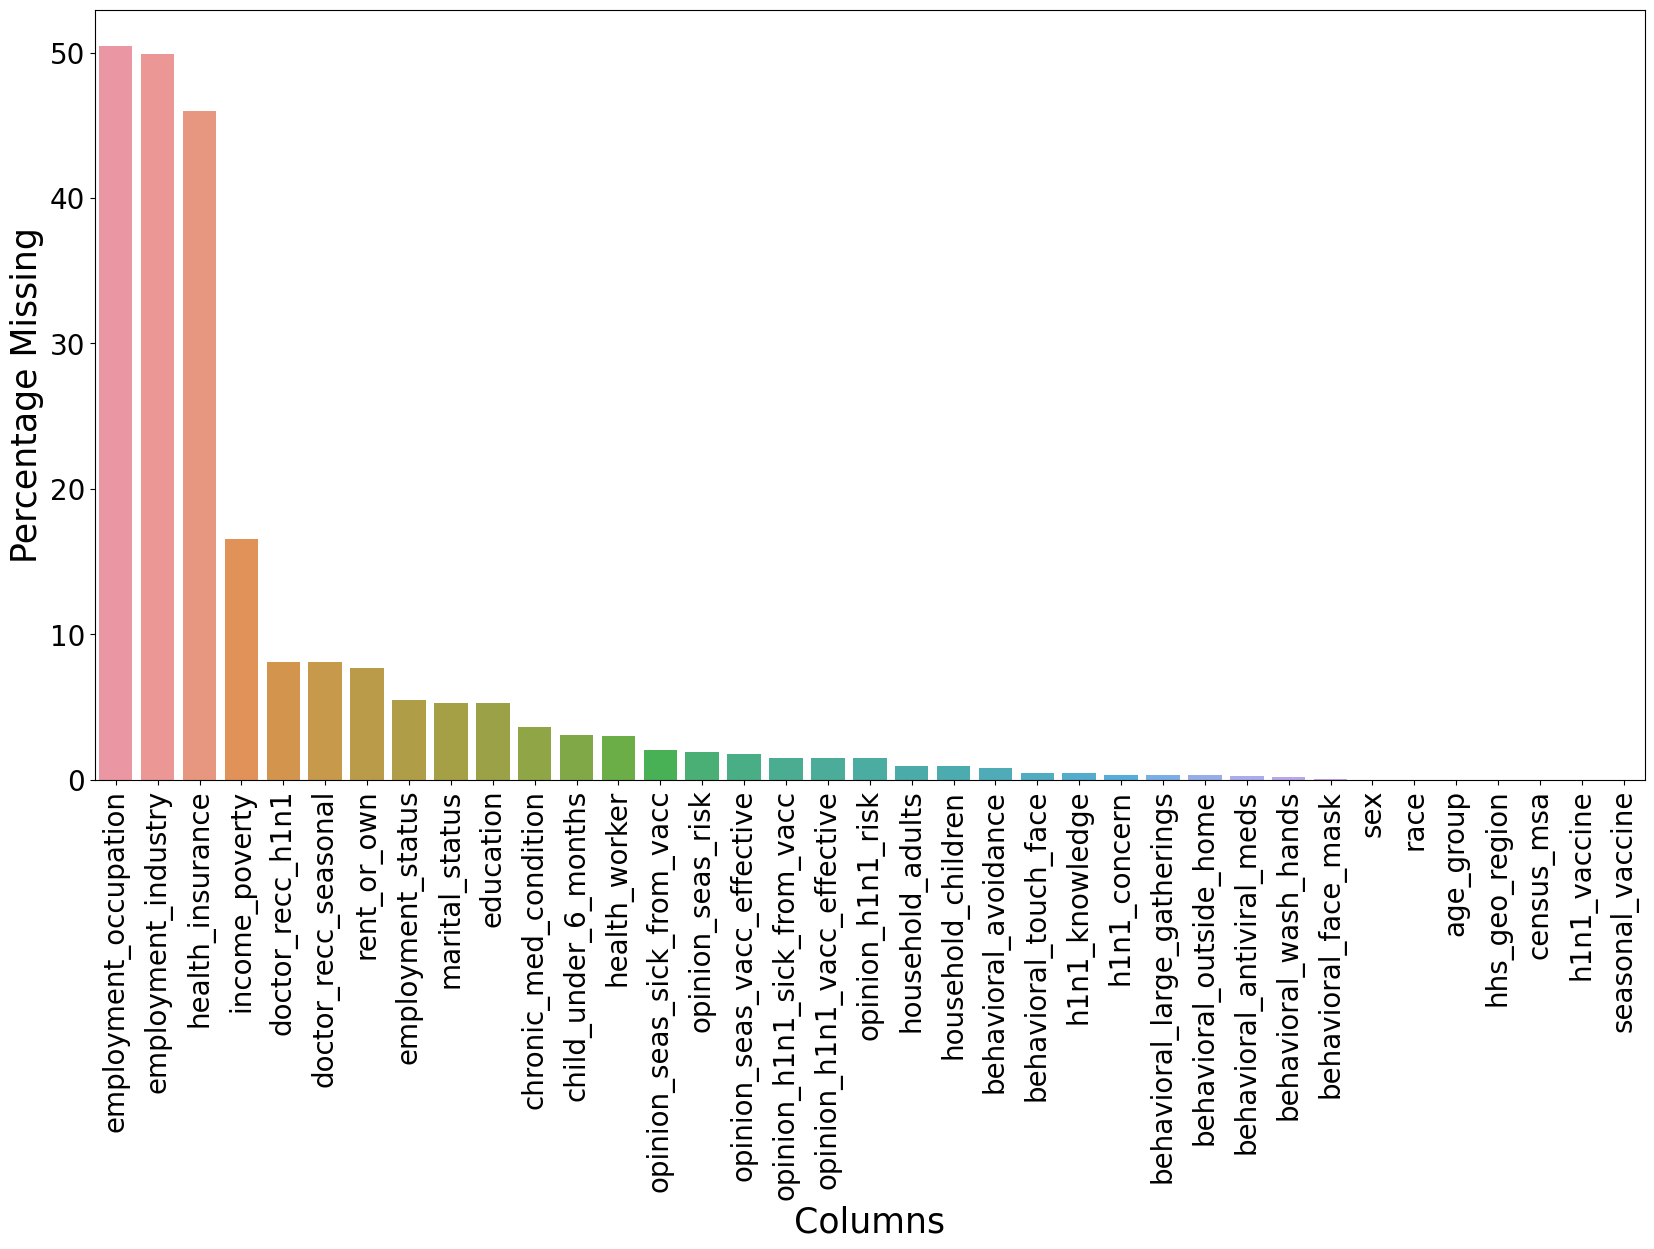
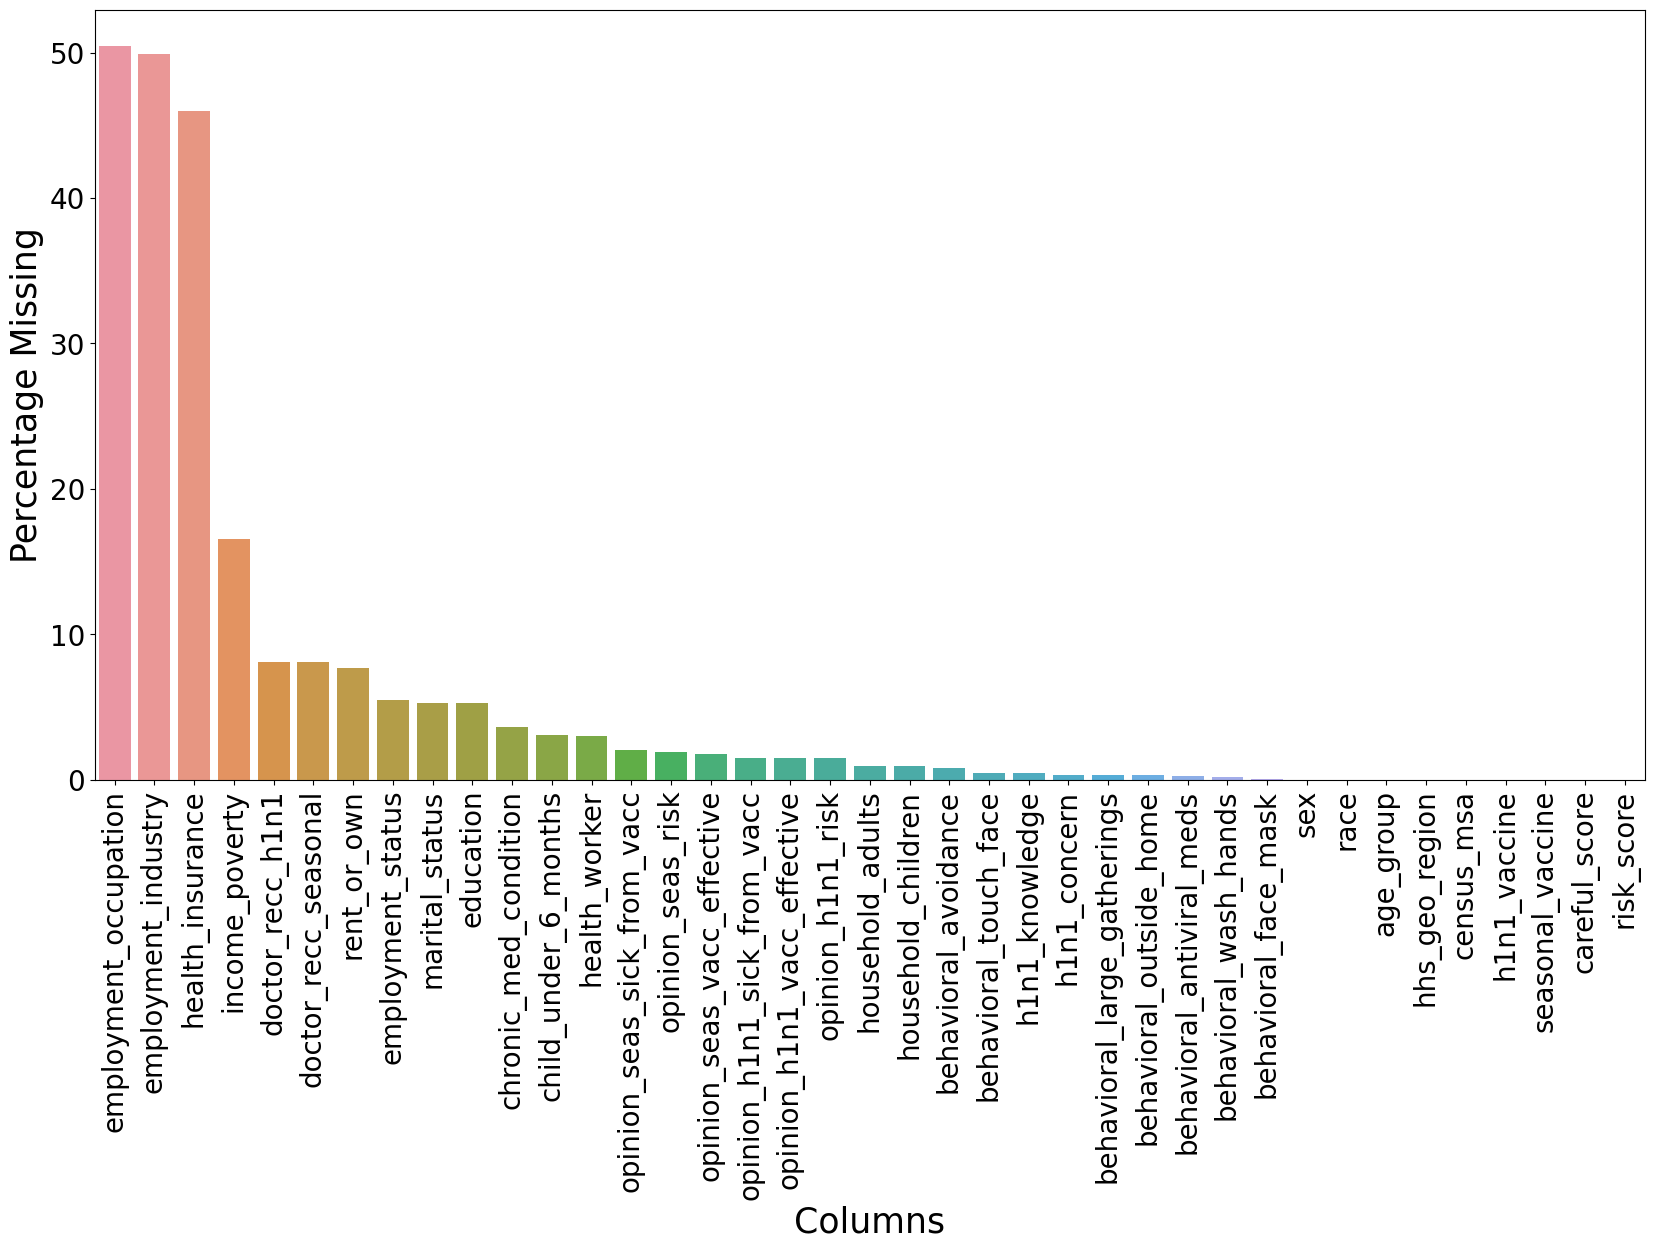
feature engineering

Changed region(s): [[0.0617, 0.0937, 0.9867, 0.968]]

diff --git a/main.py b/main.py
@@ -72,7 +72,7 @@ occurs
 
 The biggest insight of the graphing is that all variables are of categorical nature, which mean that we will
 have to think about valid encoding methods. Secondly we find several columns with a significant amount of missing
-observations. Next up we will look how bad the problem actually is."""
+observations."""
 
 CATEGORICAL_THRESHOLD = 5/100 * len(total_train)
 feature_columns = list(set(total_train.columns) - set(target_columns))
@@ -86,6 +86,76 @@ for column in tqdm(feature_columns):
         self_plot.categorical_plot(object_series)
     else:
         self_plot.numerical_plot(no_nan_series)
+
+# %% Feature Engineering - Beginning
+
+"""In order to see what the important variables are we take a first look at the most and least correlated variables
+with the target. From there we already have some sort of an idea in which direction to look"""
+
+NUM_ROWS_SHOWN = 10
+num_target_columns = len(target_columns)
+for bool_order, title in zip([True, False], ['Lowest Correlations', 'Highest Correlations']):
+    fig, axs = plt.subplots(figsize=([ num_target_columns * 10, 10]), ncols=num_target_columns)
+    axs = axs.ravel()
+    for i, y_column in enumerate(target_columns):
+        target_corr_sorted = pd.get_dummies(total_train).corr().sort_values(y_column, ascending=bool_order)
+        target_corrs_top_ten = target_corr_sorted.loc[:, [y_column]][:NUM_ROWS_SHOWN].T
+        sns.heatmap(target_corrs_top_ten, yticklabels=False, ax=axs[i])
+        axs[i].set_title(y_column)
+    axs[0].set_ylabel(title)
+    path = rf'{OUTPUT_PATH}\{title}.png'
+    fig.savefig(path, bbox_inches='tight')
+    plt.close()
+
+# %% Feature Engineering - Subjective Answers
+
+"""The dataset contains several variables which has subjective answering - for example how would you rate the risk
+of getting the seasonal flu. Given that the differentation between 'Very Low' and 'Somewhat Low' is not comparable
+between participants, we reduce the possible answers from five to three. This potentially reduces confusion.
+It is not possible to treat them as a numeric variable either given that the answer choice 'Don't Know' does not lay
+in the middle between low and high"""
+
+new_opinion_cat = {1: 'Low', 2: 'Low', 3: 'No Idea', 4: 'High', 5: 'High'}
+opinion_variables = [x for x in total_train.columns if x.startswith('opinion')]
+for var in opinion_variables:
+    total_train.loc[:, var] = total_train.loc[:, var].map(new_opinion_cat)
+
+# %% Feature Engineering - What do your co-workers do
+
+
+# %% Feature Engineering - Creation of scoring variables
+
+"""In order for the model to better pick up information from multiple columns, we can give the model the information
+in a better to understand format. For that we create a score for being careful, and for being in the risk group.
+This score is nothing other than a sum of binary variables which indicate carefulness/ or being part of a risk
+group."""
+
+# Careful People
+careful_behavior = [
+    'behavioral_antiviral_meds',
+    'behavioral_avoidance',
+    'behavioral_face_mask',
+    'behavioral_wash_hands',
+    'behavioral_large_gatherings',
+    'behavioral_outside_home',
+    'behavioral_touch_face',
+]
+
+df_careful_corr = total_train.loc[:, careful_behavior].corr()
+fig, axs = plt.subplots(figsize=(10, 10))
+sns.heatmap(df_careful_corr, ax=axs)
+path = rf'{OUTPUT_PATH}\careful_correlation_matrix.png'
+fig.savefig(path, bbox_inches='tight')
+
+total_train.loc[:, 'careful_score'] = total_train.loc[:, careful_behavior].sum(axis=1)
+
+# Risk Group
+risk_group_columns = [
+    'chronic_med_condition',
+    'health_worker',
+]
+old_series = total_train.loc[:, 'age_group'] == '65+ Years'
+total_train.loc[:, 'risk_score'] = total_train.loc[:, risk_group_columns].sum(axis=1) + old_series
 
 # %% Missing Observations
 
@@ -137,14 +207,19 @@ preprocessing_pipeline = ColumnTransformer(
 
 # %% Imputation
 
-""""""
+"""For the imputation we try out several imputation methods. We start by using simpler methods, such as
+mean and median imputation, before then moving on to model based imputation. Here we use BayesRidge and
+LinearRegression. The error metric chosen is roc_auc, given that this also represents the error metrics used
+by the overall challenge.
+
+From the results we can see that the best method seems to be """
 
 # Preliminaries
 target_clf = GradientBoostingClassifier()
 N_SPLITS = 5
+simple_methods = ['mean', 'median', 'most_frequent']
 impute_classifiers = [
     BayesianRidge(),
-    Lasso(),
     LinearRegression(),
 ]
 
@@ -156,10 +231,14 @@ for y_column in tqdm(target_columns):
     X_raw = total_train.loc[:, feature_columns]
     X_missing = preprocessing_pipeline.fit_transform(X_raw, y_series)
 
-    df_simply_imputed = self_func.simple_imputing(X_missing, y_series, target_clf, N_SPLITS)
+    df_simply_imputed = self_func.simple_imputing(X_missing, y_series, target_clf, simple_methods, N_SPLITS)
     df_iteratively_imputed = self_func.iterative_imputing(X_missing, y_series, target_clf, impute_classifiers, N_SPLITS)
+    df_imputed = pd.concat([df_imputed, df_iteratively_imputed, df_simply_imputed], axis=0)
 
-
+fig, axs = plt.subplots(figsize=(10, 10))
+sns.boxplot(data=df_imputed, x='score', y='method' ,hue='target')
+path = f'{OUTPUT_PATH}/imputation.png'
+fig.savefig(path, bbox_inches='tight')
 
 
 

diff --git a/_functions.py b/_functions.py
@@ -27,9 +27,9 @@ def fewer_than_cutoff(column_name, data, n):
 # %% Imputing Techniques
 
 
-def simple_imputing(X_data, y_data, classifier, num_splits):
-
-    simple_methods = ['mean', 'median']
+def simple_imputing(X_data, y_data, classifier, simple_methods, num_splits):
+    """This function imputes the missing values by using simple methods such as mean and median.
+    Then it reports the score"""
     df_simple_imputer = pd.DataFrame(index=list(range(len(simple_methods) * num_splits)),
                                      columns=['score', 'method', 'target'])
 
@@ -48,7 +48,7 @@ def simple_imputing(X_data, y_data, classifier, num_splits):
 
 
 def iterative_imputing(X_data, y_data, classifier, impute_classifiers, num_splits):
-
+    """This function imputes the missing values with model-based methods."""
     df_iterative_imputer = pd.DataFrame(index=list(range(len(impute_classifiers) * num_splits)),
                                         columns=['score', 'method', 'target'])
 
@@ -61,6 +61,6 @@ def iterative_imputing(X_data, y_data, classifier, impute_classifiers, num_split
         df_iterative_imputer.loc[row_begin:row_end, 'score'] = cross_val_score(
             estimator, X_data, y_data, scoring='roc_auc', cv=num_splits
         )
-        df_iterative_imputer.loc[row_begin:row_end, 'method'] = classifier.__class__.__name__
+        df_iterative_imputer.loc[row_begin:row_end, 'method'] = impute_classifier.__class__.__name__
         df_iterative_imputer.loc[row_begin:row_end, 'target'] = y_data.name
     return df_iterative_imputer
